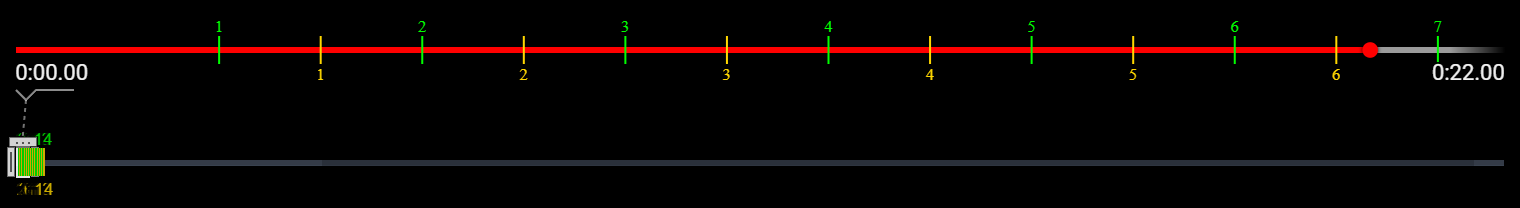
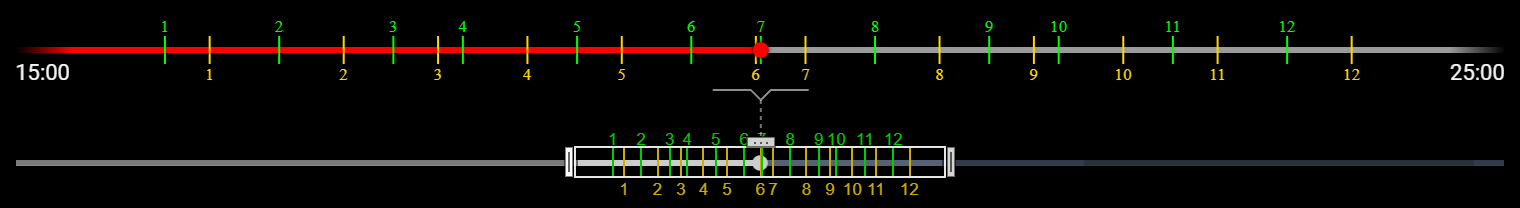
tests(ui): the timeline zoom showcase shot puts its pairs mid-video in a quarter-length zoom range, so the brush and its handles are easy to see + the playhead showcase scenarios use the steps that move the range off the playhead

diff --git a/integration-tests/ui/showcase_scenarios.py b/integration-tests/ui/showcase_scenarios.py
@@ -30,9 +30,10 @@ from test_reframe import (
 from test_timeline_zoom import (
     given_a_pair_ending_under_the_end_edge_handle,
     given_crowded_marker_pairs,
+    given_the_playhead_mid_video,
     given_the_timeline_zoom_is_open,
     wait_for_the_zoom_to_settle,
-    when_i_drag_along_the_zoomed_bar_past_its,
+    when_i_move_the_zoom_range_so_the_playhead_is_past_its,
     zoom_range,
 )
 
@@ -123,29 +124,36 @@ def timeline_zoom(markup: MarkupPage) -> None:
     given_the_timeline_zoom_is_open(markup)
 
 
-# Past the playhead (20 s), so the zoomed bar shows it among the first seven pairs.
-HIGHLIGHT_RANGE_END = 22
+# Pairs around the middle of the 40 minute video, in a zoom range a quarter of its length, so the
+# brush and its handles are large and clear of the bar's ends.
+HIGHLIGHT_STARTS = [960.0 + 40 * i + (i % 3) * 6 for i in range(12)]
+HIGHLIGHT_PAIRS = [(start, start + 18 + (i % 2) * 8) for i, start in enumerate(HIGHLIGHT_STARTS)]
+HIGHLIGHT_PLAYHEAD = 1200
+HIGHLIGHT_RANGE = (900, 1500)
 
 
 @scenario("timeline-zoom-highlight")
 def timeline_zoom_highlight(markup: MarkupPage) -> None:
-    # A narrower player and a zoom range over the first pairs, so the release notes' 640 px image
-    # shows readable pairs on the zoomed bar above the crowded brush.
+    # A narrower player, so the release notes' 640 px image shows readable pairs on the zoomed bar
+    # above the crowded brush.
     markup.page.set_viewport_size({"width": 760, "height": 900})
-    timeline_zoom(markup)
-    given_the_zoom_range_ends_at(markup, HIGHLIGHT_RANGE_END)
+    markup.load_marker_pairs(HIGHLIGHT_PAIRS)
+    markup.seek(HIGHLIGHT_PLAYHEAD)
+    given_the_timeline_zoom_is_open(markup)
+    given_the_zoom_range_is(markup, *HIGHLIGHT_RANGE)
 
 
 @step
-def given_the_zoom_range_ends_at(markup: MarkupPage, end: float) -> None:
-    x, y = markup.center_of(".ytc-tz-hit.edge-handle[data-edge='end']")
-    panel = markup.box_of(".ytc-tz")
+def given_the_zoom_range_is(markup: MarkupPage, start: float, end: float) -> None:
     duration = markup.page.evaluate("() => document.querySelector('video').duration")
-    markup.page.mouse.move(x, y)
-    markup.page.mouse.down()
-    markup.page.mouse.move(panel["x"] + end / duration * panel["width"], y, steps=6)
-    markup.page.mouse.up()
-    wait_for_the_zoom_to_settle(markup)
+    panel = markup.box_of(".ytc-tz")
+    for edge, time in (("end", end), ("start", start)):
+        x, y = markup.center_of(f".ytc-tz-hit.edge-handle[data-edge='{edge}']")
+        markup.page.mouse.move(x, y)
+        markup.page.mouse.down()
+        markup.page.mouse.move(panel["x"] + time / duration * panel["width"], y, steps=8)
+        markup.page.mouse.up()
+        wait_for_the_zoom_to_settle(markup)
     markup.report(f"zoom range {zoom_range(markup)}")
 
 
@@ -158,15 +166,15 @@ def timeline_zoom_marker_under_handle(markup: MarkupPage) -> None:
 @scenario("timeline-zoom-playhead-past-start")
 def timeline_zoom_playhead_past_start(markup: MarkupPage) -> None:
     timeline_zoom(markup)
-    when_i_drag_along_the_zoomed_bar_past_its(markup, "start")
-    markup.page.mouse.up()
+    given_the_playhead_mid_video(markup)
+    when_i_move_the_zoom_range_so_the_playhead_is_past_its(markup, "start")
 
 
 @scenario("timeline-zoom-playhead-past-end")
 def timeline_zoom_playhead_past_end(markup: MarkupPage) -> None:
     timeline_zoom(markup)
-    when_i_drag_along_the_zoomed_bar_past_its(markup, "end")
-    markup.page.mouse.up()
+    given_the_playhead_mid_video(markup)
+    when_i_move_the_zoom_range_so_the_playhead_is_past_its(markup, "end")
 
 
 @scenario("flash-below-editor")
